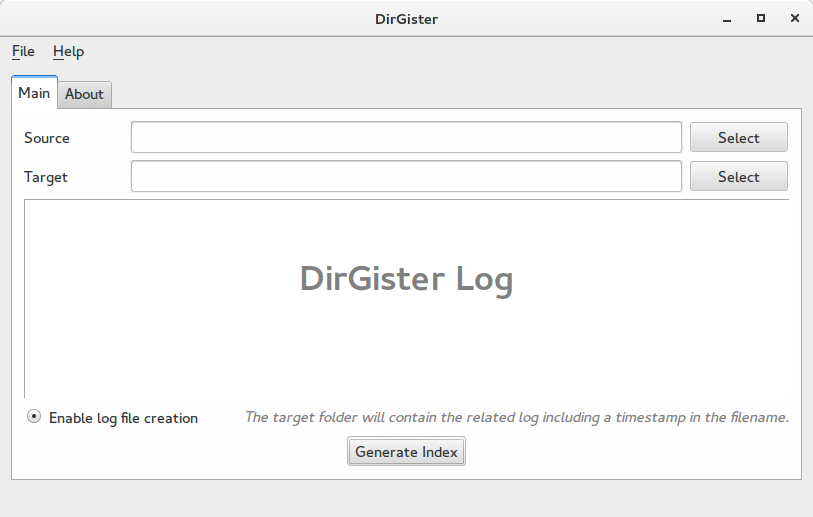
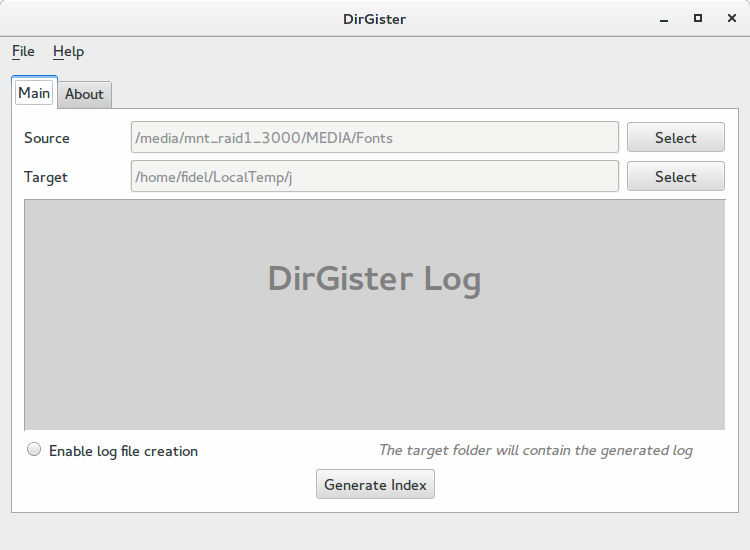
20151101.04 - Minor change in a text, adding a new screenshot to repo and raising version to .04

diff --git a/mainwindow.cpp b/mainwindow.cpp
@@ -38,7 +38,7 @@ void MainWindow::closeEvent(QCloseEvent *event)
 
 void MainWindow::initValues()
 {
-   appVersion = "20151101.03";      // App Version String
+   appVersion = "20151101.04";      // App Version String
 
    // TAB: main
    //
@@ -49,13 +49,13 @@ void MainWindow::initValues()
    ui->le_sourceFolder->setDisabled(true);
    ui->le_targetFolder->setDisabled(true);
    ui->rb_writeLog->setText("Enable log file creation");
-   ui->l_logDescription->setText("<font color='grey'><i>The target folder will contain the related log including a timestamp in the filename.</i></font>");
+   ui->l_logDescription->setText("<font color='grey'><i>The target folder will contain the generated log</i></font>");
 
    // TAB: about
    //
    ui->l_appTitle->setText("DirGister");
    ui->l_appVersion->setText(appVersion);
-   ui->pte_aboutText->insertPlainText ("DirGister is a multiplattform directory indexer written by Florian Poeck.\n\nHow it works:\n- You define a source folder and a target folder\n- It scans the source folder and\n- writes a html-based browseable index into the target-folder");
+   ui->pte_aboutText->insertPlainText ("DirGister is a multi-platform directory indexer written by Florian Poeck.\n\nHow it works:\n- You define a source folder and a target folder\n- It scans the source folder and\n- writes a html-based browseable index into the target-folder");
    // Issues Link
    ui->l_linkIssues->setText("<a href=\"https://github.com/yafp/dirgister/issues\">Issues</a>");
    ui->l_linkIssues->setTextFormat(Qt::RichText);
